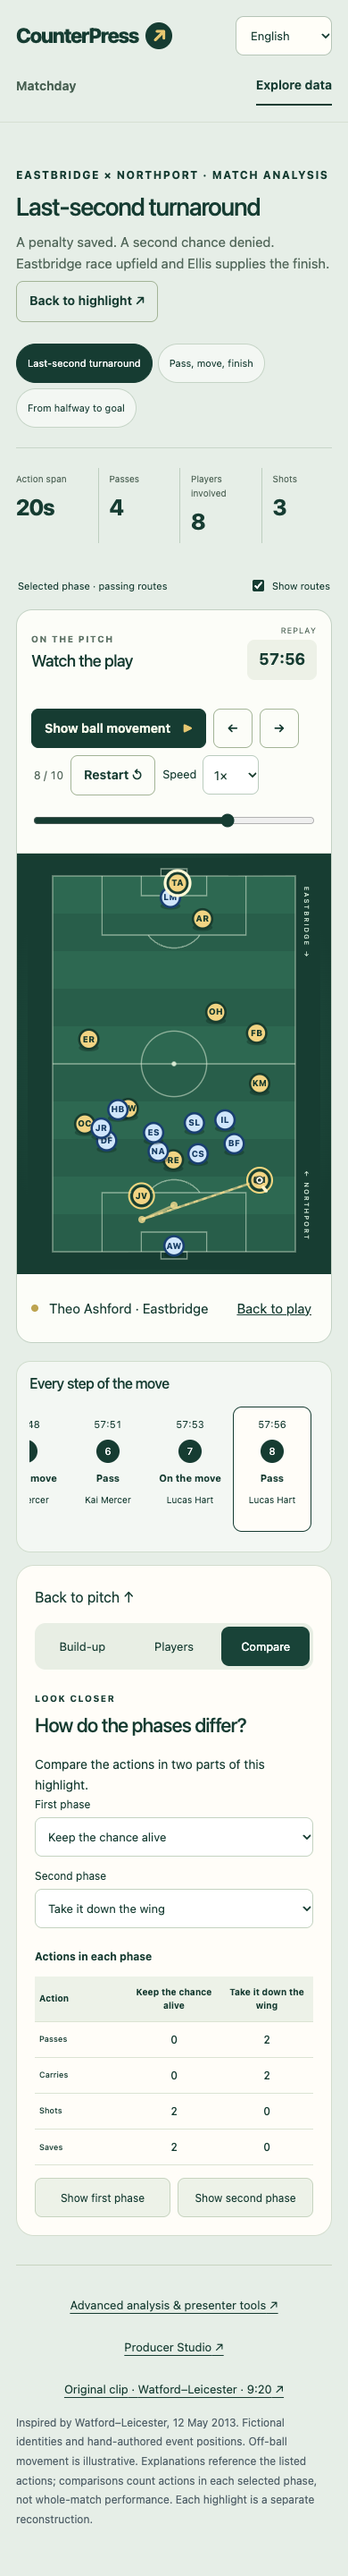
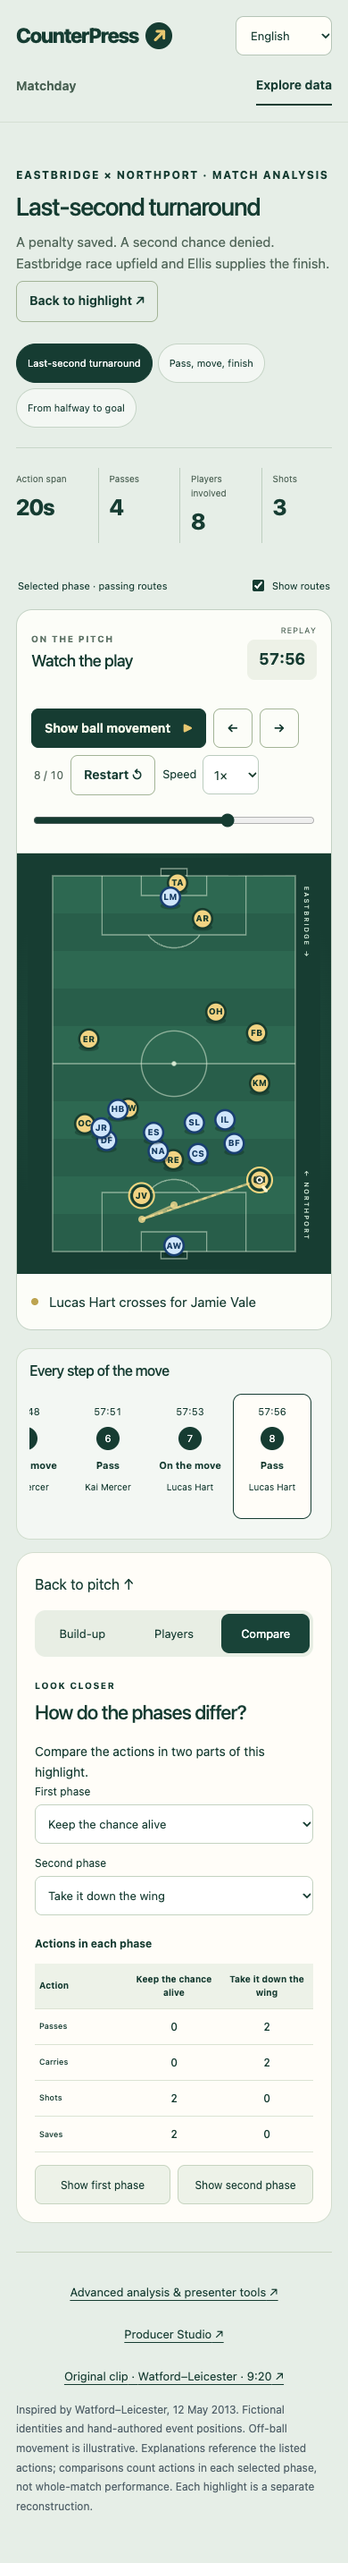
Keep player selection synchronized between insights and pitch

diff --git a/frontend/src/matchday/MatchPitch.tsx b/frontend/src/matchday/MatchPitch.tsx
@@ -5,10 +5,11 @@ import { clubName, initials, playerName } from './identity'
 import { actionLabel, actionText, sequenceScene, pitchZone, recipient, fieldPoint } from './pitchScene'
 import { ClubCrest } from './ClubCrest'
 
-export function MatchPitch({events,language='en',compact=false,fromStart=false,onPlayhead,seekTo,onPlayerSelect,routes=[]}:{events:Event[];language?:string;compact?:boolean;fromStart?:boolean;onPlayhead?:(value:{index:number;resolved:boolean})=>void;seekTo?:{index:number;version:number};onPlayerSelect?:(id:string)=>void;routes?:Event[]}) {
+export function MatchPitch({events,language='en',compact=false,fromStart=false,onPlayhead,seekTo,onPlayerSelect,selectedPlayer,routes=[]}:{events:Event[];language?:string;compact?:boolean;fromStart?:boolean;onPlayhead?:(value:{index:number;resolved:boolean})=>void;seekTo?:{index:number;version:number};onPlayerSelect?:(id:string|null)=>void;selectedPlayer?:string|null;routes?:Event[]}) {
   const zh=language==='zh-Hans', t=(en:string,cn:string)=>zh?cn:en
   const [index,setIndex]=useState(fromStart?0:Math.max(0,events.length-1)), [progress,setProgress]=useState(0), [playing,setPlaying]=useState(false)
-  const [selected,setSelected]=useState<string|null>(null), [reduced,setReduced]=useState(false)
+  const [localSelected,setSelected]=useState<string|null>(null), [reduced,setReduced]=useState(false)
+  const selected=selectedPlayer===undefined?localSelected:selectedPlayer
   const id=useId().replaceAll(':','')
   const [portrait,setPortrait]=useState(false)
   const [speed,setSpeed]=useState(1)
@@ -140,7 +141,7 @@ export function MatchPitch({events,language='en',compact=false,fromStart=false,o
     </div>
     <div className="fan-pitch-caption" aria-live={playing?'off':'polite'}><span className="fan-play-dot"/>
       <p>{selected ? `${playerName(selected)} · ${clubName(selected.startsWith('eb')?'eastbridge':'northport')}` : event ? (event.action.kind==='shot'&&!resolved ? t(`${playerName(event.actor.player_id)} lines up the shot…`,`${playerName(event.actor.player_id)}准备射门…`) : actionText(event,zh)) : t('Waiting for the next play','等待下一次进攻')}</p>
-      {selected && <button onClick={()=>setSelected(null)}>{t('Back to play','返回回放')}</button>}</div>
+      {selected && <button onClick={()=>{setSelected(null);onPlayerSelect?.(null)}}>{t('Back to play','返回回放')}</button>}</div>
 
   </section>
 }

diff --git a/frontend/src/explore/ExploreData.tsx b/frontend/src/explore/ExploreData.tsx
@@ -60,7 +60,7 @@ export default function ExploreData() {
     const at=events.findIndex(e=>phases[index]?.ids.includes(e.event_id))
     if(at>=0) seekEvent(at)
   }
-  function choosePlayer(id:string) {setPlayer(id);setView('players')}
+  function choosePlayer(id:string|null) {setPlayer(id);setView(id?'players':'build')}
   function switchHighlight(id:string) {
     const url=new URL(window.location.href);url.searchParams.set('story',id);window.history.replaceState(null,'',url)
     m.scenario(id)
@@ -82,7 +82,7 @@ export default function ExploreData() {
         <div className="explore-workspace">
           <div className="explore-field" id="explore-pitch" tabIndex={-1} aria-label={t('Selected play','所选回放')}>
             <div className="explore-overlay"><span>{view==='players' ? t('Selected player · passing routes','所选球员 · 传球路线') : t('Selected phase · passing routes','所选阶段 · 传球路线')}</span><label><input type="checkbox" checked={routes} onChange={e=>setRoutes(e.target.checked)}/>{t('Show routes','显示路线')}</label></div>
-            <MatchPitch key={storyId} events={events} language={p.language} compact fromStart onPlayhead={setHead} seekTo={seek} onPlayerSelect={choosePlayer} routes={routes ? records : []}/>
+            <MatchPitch key={storyId} events={events} language={p.language} compact fromStart onPlayhead={setHead} seekTo={seek} onPlayerSelect={choosePlayer} selectedPlayer={view==='players'?player:null} routes={routes ? records : []}/>
             <section className="explore-timeline" aria-label={t('Highlight timeline','集锦时间线')}><h2>{t('Every step of the move','进攻的每一步')}</h2><ol ref={timelineRef}>{events.map((event,index)=><li key={`${event.event_id}:${event.revision}`}><button aria-current={index===head.index?'step':undefined} onClick={()=>seekEvent(index)} aria-label={`${clock(event.occurred_at.elapsed_ms,event.occurred_at.period)}: ${actionText(event,zh)}`}><time>{clock(event.occurred_at.elapsed_ms,event.occurred_at.period)}</time><span className={`explore-event-dot ${event.action.kind==='shot'?'is-shot':''}`}>{index+1}</span><strong>{actionLabel(event,zh)}</strong><span>{playerName(event.actor.player_id)}</span></button></li>)}</ol></section>
           </div>
           <aside id="explore-insights" tabIndex={-1} className="explore-insights" aria-label={t('Highlight insights','集锦解读')}>

diff --git a/frontend/src/explore/ExploreData.test.tsx b/frontend/src/explore/ExploreData.test.tsx
@@ -28,6 +28,10 @@ test('supporting plays seek the pitch, player selections expose evidence and pha
  fireEvent.click(within(pitch).getByRole('button',{name:'Theo Ashford, Eastbridge'}))
  expect(screen.getByRole('heading',{name:'Theo Ashford'})).toBeTruthy()
  expect(screen.getByText('Involved in 2 recorded actions in this highlight.')).toBeTruthy()
+ fireEvent.click(within(screen.getByRole('complementary',{name:'Highlight insights'})).getByRole('button',{name:/Rory Ellis/}))
+ expect(within(pitch).getByRole('button',{name:'Rory Ellis, Eastbridge'}).getAttribute('aria-pressed')).toBe('true')
+ fireEvent.click(within(pitch).getByRole('button',{name:'Back to play'}))
+ expect(screen.getByRole('heading',{name:'How did the chance develop?'})).toBeTruthy()
  fireEvent.click(within(pitch).getByRole('button',{name:'Finn Brooks, Eastbridge'}))
  expect(screen.getByText('No recorded ball action involves this player in this highlight.')).toBeTruthy()
  fireEvent.click(screen.getByRole('button',{name:'Compare'}))
